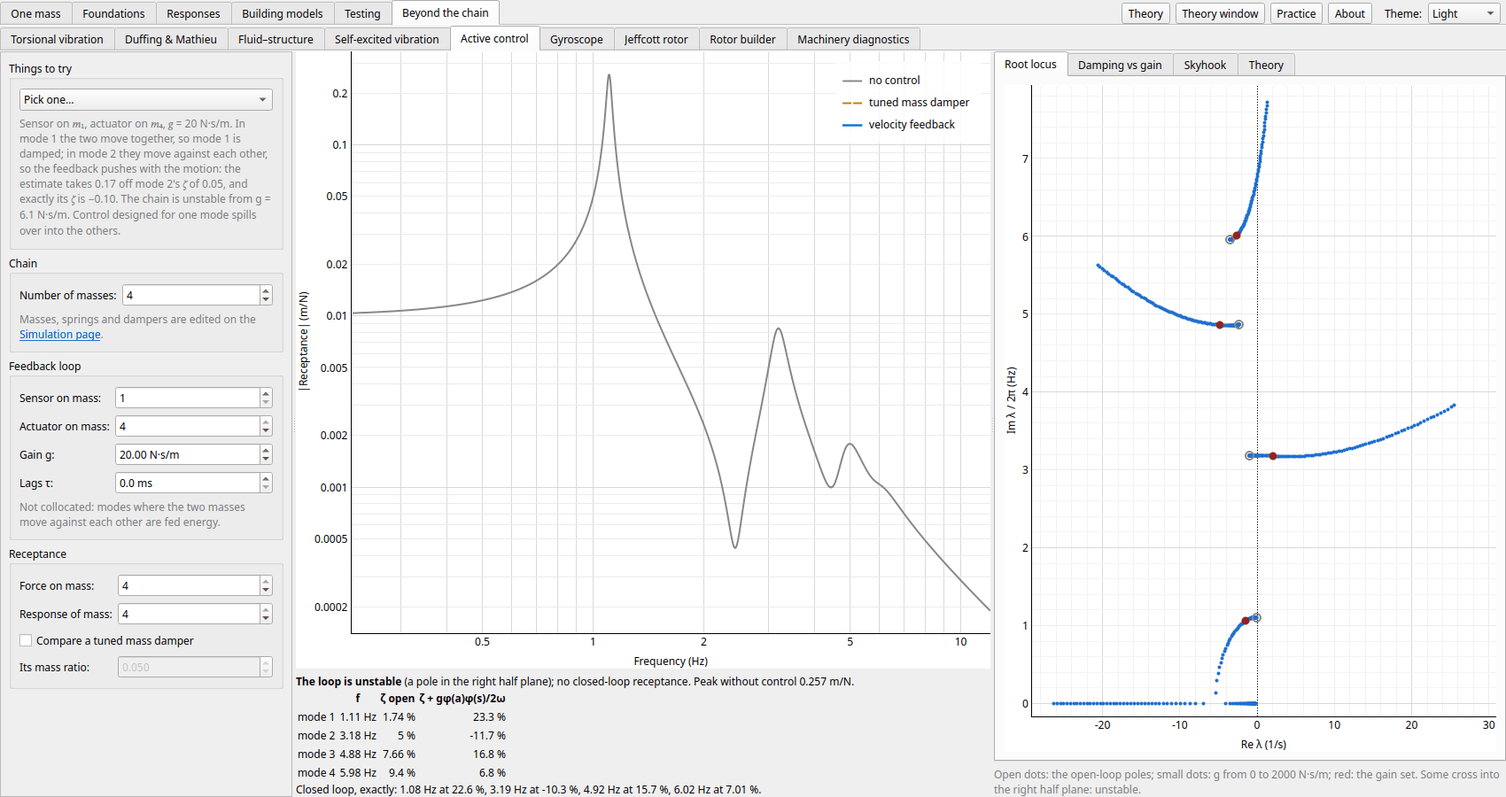
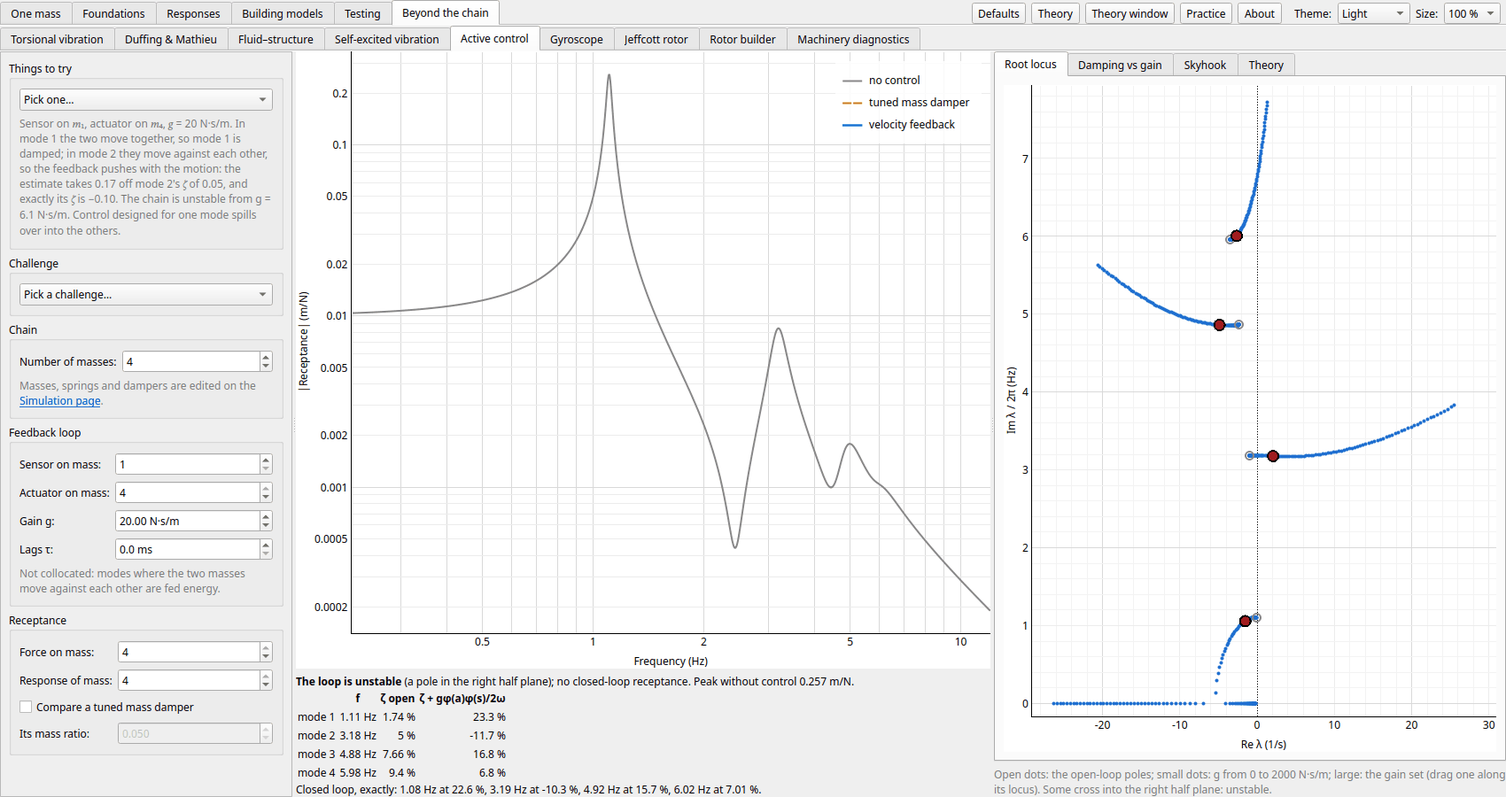
Drag the poles: the Single oscillator's s-plane and Active control's root locus (#316 B5)
The Single oscillator's poles are DragPoints (new in gui/drag.py): k and c follow, the mass kept; on the
real axis the other pole stays put (or meets it: critical). Active control's poles at the gain set are
DragDots along the locus, setting the gain.

diff --git a/src/vib_tutorial/gui/sdof.py b/src/vib_tutorial/gui/sdof.py
@@ -4,8 +4,8 @@ Left: the oscillator, its start and its drive. Centre: the mass itself on its sp
 the free or the driven response (pluck it to start it from where you let go; a `Playback` walks the time,
 with a cursor on the time plot), then the free decay (with its envelope and peaks, or
 three dampings side by side) and the response to a harmonic force switched on from rest. Right: the
-frequency response with its half-power band, the Nyquist plot, the phase plane, the poles (click to move
-them) and the Theory. The page has its own model (core/sdof.py), not the chain.
+frequency response with its half-power band, the Nyquist plot, the phase plane, the poles (drag
+them, `DragPoint`s, or click, to set k and c) and the Theory. The page has its own model (core/sdof.py), not the chain.
 """
 
 from __future__ import annotations
@@ -31,7 +31,7 @@ from ..core.sdof import (
 )
 from . import sdof_figures, settle_plots
 from .animation import ChainView
-from .drag import DragLine
+from .drag import DragLine, DragPoint
 from .layouts import ColumnScroll, group
 from .lesson import (
     Dot,
@@ -115,8 +115,8 @@ TRIALS = (
     SdofTrial(
         "Overdamped: two real poles",
         "<m>c</m> = 80 N·s/m, <m>ζ = 2</m>. The poles have left the imaginary axis for two points on the real one, at "
-        "−5.4 and −74.6 s<sup>−1</sup>: two decays and no oscillation. Click in the Poles plot to put them "
-        "anywhere; the page works out the <m>k</m> and <m>c</m> that put them there.",
+        "−5.4 and −74.6 s<sup>−1</sup>: two decays and no oscillation. Drag either along the real axis, "
+        "or off it, and the page works out the <m>k</m> and <m>c</m> that put them there.",
         damping=80.0,
         tab=TAB_POLES,
     ),
@@ -533,11 +533,13 @@ PHASE_TIP = (
     "<p>The free vibration as a path in the phase plane: velocity over ω<sub>n</sub> against displacement. "
     "Undamped it is a circle; damping winds it into a spiral, a turn per cycle.</p>"
 )
+POLE_SNAP = 0.02  # a pole dragged this close to the real axis (of the plot's height) lands on it
 POLES_TIP = (
     "<p>The roots of m s² + c s + k in the complex plane: −ζω<sub>n</sub> ± iω<sub>d</sub>. Their distance "
     "from the origin is ω<sub>n</sub>, the angle from the imaginary axis is sin⁻¹ζ. The rays are ζ = 0.05, "
-    "0.2, 0.5 and 0.8, the arc the current ω<sub>n</sub>. Click to put the upper pole there (the mass is "
-    "kept, k and c follow).</p>"
+    "0.2, 0.5 and 0.8, the arc the current ω<sub>n</sub>. Drag a pole (or click where it should go) and k and c "
+    "follow, the mass kept; the free and driven responses beside change as it moves. Drag one onto the real axis "
+    "for critical damping, then along it to split the pair.</p>"
 )
 
 NOTES_HTML = load_notes(
@@ -744,9 +746,14 @@ class SdofPage(QtWidgets.QWidget):
         self.s_plot.setToolTip(POLES_TIP)
         self.rays = [pg.PlotDataItem() for _ in range(4)]
         self.arc = pg.PlotDataItem()
-        self.pole_item = pg.ScatterPlotItem(size=12, symbol="x")
-        for item in (*self.rays, self.arc, self.pole_item):
+        self.pole_dots = [DragPoint("<p>Drag the pole: k and c follow (the mass is kept).</p>") for _ in range(2)]
+        self.pole_dots[0].dragged.connect(self._on_upper_dragged)
+        self.pole_dots[1].dragged.connect(self._on_lower_dragged)
+        for item in (*self.rays, self.arc, *self.pole_dots):
             self.s_plot.addItem(item)
+        for dot in self.pole_dots:
+            dot.released.connect(self._on_pole_released)
+        self._held: complex | None = None  # the pole not being dragged, while one is
         self.s_plot.scene().sigMouseClicked.connect(self._on_pole_click)
         sv.addWidget(self.s_plot, 1)
         self.pole_note = note_label()
@@ -862,10 +869,45 @@ class SdofPage(QtWidgets.QWidget):
         sigma, w = pos.x(), abs(pos.y())
         if sigma >= 0 or w <= 0:
             return
-        wn = math.hypot(sigma, w)
+        self._set_pair(sigma, w)
+
+    def _set_pair(self, sigma: float, w: float) -> None:
+        """k and c for the poles σ ± iw (or two real ones, `_set_real`), the mass kept."""
         m = self.osc.mass
-        set_quietly(self.stiffness, m * wn * wn)
+        set_quietly(self.stiffness, m * (sigma * sigma + w * w))
         set_quietly(self.damping, -2.0 * sigma * m)
+        self._on_oscillator()
+
+    def _on_pole_released(self) -> None:
+        self._held = None
+        self._draw_poles()  # the range held while dragging, fitted again
+
+    def _on_upper_dragged(self, x: float, y: float) -> None:
+        self._drag_pole(0, x, y)
+
+    def _on_lower_dragged(self, x: float, y: float) -> None:
+        self._drag_pole(1, x, y)
+
+    def _drag_pole(self, i: int, x: float, y: float) -> None:
+        """Pole `i` dragged to x + iy: off the real axis the pair goes there (its mirror image too); within a few
+        pixels of it, a real pole, the other staying where it is if it's on the axis too (or meeting it there,
+        from a complex pair: critical damping). Never into the right half plane, nor onto the origin (k = 0)."""
+        vb = self.s_plot.getPlotItem().getViewBox()
+        (x0, x1), (y0, y1) = vb.viewRange()
+        x = min(x, 0.0)
+        if abs(y) > POLE_SNAP * (y1 - y0):
+            self._set_pair(x, abs(y))
+            return
+        tiny = 1e-3 * (x1 - x0)
+        x = min(x, -tiny)
+        if self._held is None:  # the other pole as the drag began (the dots swap as real poles pass)
+            self._held = complex(self.osc.poles()[1 - i])
+        held = self._held  # stays where it is if it's on the axis (critical's rounding too)
+        other = held.real if abs(held.imag) <= POLE_SNAP * (y1 - y0) else x
+        other = min(other, -tiny)
+        m = self.osc.mass
+        set_quietly(self.stiffness, m * x * other)
+        set_quietly(self.damping, -m * (x + other))
         self._on_oscillator()
 
     def force_amplitude(self, freq_hz: float | np.ndarray) -> float | np.ndarray:
@@ -912,8 +954,8 @@ class SdofPage(QtWidgets.QWidget):
         for ray in self.rays:
             ray.setPen(pg.mkPen(c.faint, width=1, style=QtCore.Qt.PenStyle.DashLine))
         self.arc.setPen(pg.mkPen(c.faint, width=1))
-        self.pole_item.setPen(pg.mkPen(c.force, width=2.5))
-        self.pole_item.setBrush(pg.mkBrush(c.force))
+        for dot in self.pole_dots:
+            dot.apply_theme()
         self.plane_now.setPen(pg.mkPen(c.background, width=1.5))
         self.plane_now.setBrush(pg.mkBrush(c.mass[0]))
         self.body.apply_theme()
@@ -1210,7 +1252,8 @@ class SdofPage(QtWidgets.QWidget):
     def _draw_poles(self) -> None:
         o = self.osc
         s = o.poles()
-        self.pole_item.setData(s.real, s.imag)
+        for dot, p in zip(self.pole_dots, s):
+            dot.place(float(p.real), float(p.imag))
         wn = o.omega_n
         reach = max(1.3 * wn, 1.1 * float(np.max(np.abs(s.real))))
         for ray, z in zip(self.rays, (0.05, 0.2, 0.5, 0.8)):
@@ -1222,7 +1265,8 @@ class SdofPage(QtWidgets.QWidget):
             )
         th = np.linspace(math.pi / 2, 3 * math.pi / 2, 200)
         self.arc.setData(wn * np.cos(th), wn * np.sin(th))
-        self.s_plot.setRange(xRange=(-reach, 0.15 * reach), yRange=(-1.2 * wn, 1.2 * wn), padding=0.02)
+        if not any(dot.moving for dot in self.pole_dots):  # held still under the reader's drag
+            self.s_plot.setRange(xRange=(-reach, 0.15 * reach), yRange=(-1.2 * wn, 1.2 * wn), padding=0.02)
         if o.zeta < 1:
             self.pole_note.setText(
                 f"s = {s[0].real:.4g} ± {abs(s[0].imag):.4g}i s⁻¹: decay rate ζω<sub>n</sub> = "

diff --git a/src/vib_tutorial/gui/active_control.py b/src/vib_tutorial/gui/active_control.py
@@ -2,7 +2,7 @@
 
 Left: the sensor and actuator masses, the gain and the actuator's lag, the disturbance and response masses, and a
 tuned mass damper to compare. Centre: the receptance without control, with it, and with the TMD, and each mode's
-damping. Right: the root locus as the gain rises, each mode's damping against the gain, skyhook isolation, and the
+damping. Right: the root locus as the gain rises (drag a pole along it to set the gain: `DragDot`s), each mode's damping against the gain, skyhook isolation, and the
 Theory (its figures: gui/active_control_figures.py).
 """
 
@@ -31,6 +31,7 @@ from ..core.model import ChainSystem
 from ..core.practice import Problem, Question, Requirement, at_least, kept, number, pick
 from . import active_control_figures, settle_plots
 from .challenge import ChallengeBox
+from .drag import DragDot
 from .lesson import (
     Form,
     TrialBox,
@@ -393,8 +394,8 @@ TIPS = {
 }
 FRF_TIP = "<p>The receptance from the disturbance to the response: open loop, closed loop, and with the TMD.</p>"
 LOCUS_TIP = (
-    "<p>The closed-loop poles as the gain rises from 0 (open dots) to 2000 N·s/m; the filled dots are at "
-    "the gain set. Right of Re = 0 is unstable.</p>"
+    "<p>The closed-loop poles as the gain rises from 0 (open dots) to 2000 N·s/m; the large dots are at "
+    "the gain set: drag one along its locus to set the gain. Right of Re = 0 is unstable.</p>"
 )
 GAIN_TIP = (
     "<p>Each mode's damping ratio against the gain (followed by continuity); the dotted line is the gain set.</p>"
@@ -471,10 +472,14 @@ class ActiveControlPage(QtWidgets.QWidget):
         self.locus_plot.setToolTip(LOCUS_TIP)
         self.locus_items = marker(4)
         self.locus_open = marker(9)
-        self.locus_now = marker(9)
+        self.locus_now = [
+            DragDot("<p>Drag the pole along its locus to set the gain.</p>", size=12) for _ in range(MAX_DOF)
+        ]
         self.locus_axis = pg.InfiniteLine(angle=90, pos=0)
-        for item in (self.locus_axis, self.locus_items, self.locus_open, self.locus_now):
+        for item in (self.locus_axis, self.locus_items, self.locus_open, *self.locus_now):
             self.locus_plot.addItem(item)
+        for dot in self.locus_now:
+            dot.dragged.connect(self._on_locus_dragged)
         self.gain_plot = plot("Damping ratio ζ (%)", None, "Gain g (N·s/m)", None, log_x=True, height=200)
         self.gain_plot.setToolTip(GAIN_TIP)
         add_legend(self.gain_plot.getPlotItem(), offset=(-10, 10))
@@ -619,7 +624,8 @@ class ActiveControlPage(QtWidgets.QWidget):
         self.tmd_item.setPen(pg.mkPen(c.mass[1], width=2, style=QtCore.Qt.PenStyle.DashLine))
         mark(self.locus_items, c.mass[0], filled=True)
         mark(self.locus_open, c.grey)
-        mark(self.locus_now, c.force, filled=True)
+        for dot in self.locus_now:
+            dot.apply_theme()
         self.locus_axis.setPen(pg.mkPen(c.strong, width=1, style=QtCore.Qt.PenStyle.DotLine))
         self.gain_line.setPen(pg.mkPen(c.grey, width=1.5, style=QtCore.Qt.PenStyle.DotLine))
         self.gain_zero.setPen(pg.mkPen(c.faint, width=1))
@@ -633,6 +639,9 @@ class ActiveControlPage(QtWidgets.QWidget):
         self._dirty = True
         if self.isVisible():
             self.redraw()
+
+    def _on_locus_dragged(self, gain: float) -> None:
+        self.gain.setValue(gain)  # redraws, the dots with it
 
     def redraw(self) -> None:
         self._dirty = False
@@ -704,12 +713,17 @@ class ActiveControlPage(QtWidgets.QWidget):
                 roots.append(lam[lam.imag >= 0])
             pts = np.concatenate(roots)
             self.locus_items.setData(pts.real, pts.imag / (2 * np.pi))
+            gains = np.repeat(GAINS, [len(r) for r in roots])  # each point's gain, for the dots dragged along it
             lam0 = np.linalg.eigvals(closed_loop(s, None)[0])
             lam0 = lam0[lam0.imag >= 0]
             self.locus_open.setData(lam0.real, lam0.imag / (2 * np.pi))
             lam = np.linalg.eigvals(closed_loop(s, ctrl)[0])
             lam = lam[lam.imag >= 0]
-            self.locus_now.setData(lam.real, lam.imag / (2 * np.pi))
+            for j, dot in enumerate(self.locus_now):
+                dot.setVisible(j < len(lam))
+                dot.set_path(pts.real, pts.imag / (2 * np.pi), gains)
+                if j < len(lam):
+                    dot.place(float(lam[j].real), float(lam[j].imag) / (2 * np.pi), ctrl.gain)
             w = undamped_modes(s)[0]
             fmax = float(w[-1]) / (2 * np.pi) * 1.3
             reals = pts.real[np.abs(pts.real) < 5 * fmax * 2 * np.pi]
@@ -718,8 +732,8 @@ class ActiveControlPage(QtWidgets.QWidget):
             )
             self.locus_plot.setYRange(0.0, fmax, padding=0.02)
             self.tab_note.setText(
-                "Open dots: the open-loop poles; small dots: g from 0 to 2000 N·s/m; red: the gain "
-                "set. "
+                "Open dots: the open-loop poles; small dots: g from 0 to 2000 N·s/m; large: the gain "
+                "set (drag one along its locus). "
                 + (
                     "All stay left of Re λ = 0."
                     if max(pts.real) < 0

diff --git a/tests/test_drag.py b/tests/test_drag.py
@@ -75,6 +75,46 @@ def test_dragging_the_sdof_drive_line_sweeps_the_drive(main_window, app):
     assert line.data_value() == pytest.approx(5.0) and not seen
 
 
+def test_dragging_the_sdof_poles_sets_k_and_c(main_window, app):
+    """Off the real axis the pair follows the pointer; onto it, critical damping; along it, two real poles."""
+    w = main_window
+    w.resize(1280, 800)
+    p = w.sdof_page
+    w.pages.setCurrentWidget(p)
+    p.tabs.setCurrentIndex(3)  # Poles
+    p.s_plot.grab()
+    for _ in range(5):
+        app.processEvents()
+    m = p.mass.value()
+    upper, lower = p.pole_dots
+    s = p.osc.poles()
+    assert (upper.pos().x(), upper.pos().y()) == pytest.approx((s[0].real, s[0].imag))
+    range_before = p.s_plot.getPlotItem().getViewBox().viewRange()
+
+    drag(p.s_plot, scene_at(p.s_plot, s[0].real, s[0].imag), scene_at(p.s_plot, -6.0, 12.0), app)
+    s = p.osc.poles()  # σ ± iω_d where it was let go: k = m(σ² + ω²), c = −2mσ
+    assert s[0] == pytest.approx(complex(-6.0, 12.0), rel=0.02)
+    assert p.stiffness.value() == pytest.approx(m * 180.0, rel=0.03)
+    assert p.damping.value() == pytest.approx(12.0 * m, rel=0.03)
+    assert (lower.pos().x(), lower.pos().y()) == pytest.approx((s[1].real, s[1].imag), rel=1e-6)
+    assert p.free_item.getData()[1] is not None  # the free response beside was redrawn ...
+    t, x = p.free_item.getData()
+    assert np.ptp(x[t > 1.0]) < 0.01 * np.ptp(x)  # ... decaying at e^(−6t) now
+
+    drag(p.s_plot, scene_at(p.s_plot, -6.0, -12.0), scene_at(p.s_plot, -9.0, 0.0), app)  # the lower one
+    assert p.osc.zeta == pytest.approx(1.0, abs=0.01)  # met on the axis: critical
+    assert p.osc.omega_n == pytest.approx(9.0, rel=0.02)
+
+    drag(p.s_plot, scene_at(p.s_plot, -9.0, 0.0), scene_at(p.s_plot, -3.0, 0.0), app)
+    s = np.sort(p.osc.poles().real)  # one went to −3, the other stayed at −9
+    assert s == pytest.approx([-9.0, -3.0], rel=0.03)
+    assert p.stiffness.value() == pytest.approx(m * 27.0, rel=0.03)
+
+    drag(p.s_plot, scene_at(p.s_plot, -3.0, 0.0), scene_at(p.s_plot, 5.0, 8.0), app)  # into the right half
+    assert p.damping.value() == 0.0 and p.osc.poles()[0].real == pytest.approx(0.0, abs=1e-9)
+    assert p.s_plot.getPlotItem().getViewBox().viewRange() != range_before  # refitted once let go
+
+
 def test_a_drag_dot_snaps_to_its_path_and_emits_the_parameter(app):
     import pyqtgraph as pg
 
@@ -152,3 +192,28 @@ def test_dragging_the_quarter_car_dot_changes_the_damper(main_window, app):
     p.tabs.setCurrentIndex(next(k for k in range(p.tabs.count()) if p.tabs.tabText(k).startswith("Damper")))
     app.processEvents()
     assert p.damper_now.data_value() == pytest.approx(p.damper.value(), rel=1e-6)  # the sweep's line, once shown
+
+
+def test_dragging_a_pole_along_the_active_control_locus_sets_the_gain(main_window, app):
+    from vib_tutorial.gui.active_control import TAB_LOCUS
+
+    w = main_window
+    w.resize(1280, 800)
+    p = w.active_control_page
+    w.pages.setCurrentWidget(p)
+    p.tabs.setCurrentIndex(TAB_LOCUS)
+    p.locus_plot.grab()
+    for _ in range(5):
+        app.processEvents()
+    shown = [d for d in p.locus_now if d.isVisible()]
+    assert shown and all(d.param == pytest.approx(p.gain.value()) for d in shown)
+    dot = shown[0]
+    x, y, g = dot._x, dot._y, dot._p
+    near = np.flatnonzero(np.abs(np.log(np.maximum(g, 1e-9) / 300.0)) < 0.05)  # each branch's point at ~300 N·s/m
+    start = scene_at(p.locus_plot, dot.pos().x(), dot.pos().y())
+    far = [(scene_at(p.locus_plot, x[i], y[i]) - start).manhattanLength() for i in near]
+    target = int(near[np.argmax(far)])  # the one farthest from the dot on screen
+    assert max(far) > 40
+    drag(p.locus_plot, start, scene_at(p.locus_plot, x[target], y[target]), app)
+    assert p.gain.value() == pytest.approx(g[target], rel=0.02)  # the box follows ...
+    assert all(d.param == pytest.approx(p.gain.value()) for d in shown)  # ... and every pole moves to it

diff --git a/src/vib_tutorial/gui/drag.py b/src/vib_tutorial/gui/drag.py
@@ -8,6 +8,9 @@ units on a log axis too (pyqtgraph's items sit in log10 coordinates there).
   they let go; `set_value` moves it without either (from the page's own box, a trial).
 - `DragDot`: a dot on a path given point by point, each with a parameter (the damper along a trade-off curve); a
   drag snaps it to the nearest point on screen and emits that point's parameter.
+- `DragPoint`: a dot free to go anywhere on the plot (a pole in the s-plane). A drag emits where the pointer is,
+  `dragged(x, y)`, and leaves the dot to the page, which works out what that point means, clamps it and puts the
+  dot where it ended up (`place`).
 
 The page calls `apply_theme()` from its own (`MainWindow._restyle`), as for any item that keeps pens.
 
@@ -139,3 +142,31 @@ class DragDot(pg.TargetItem):
         self.setHoverPen(pg.mkPen(colors.strong, width=3))
         self.setHoverBrush(pg.mkBrush(QtGui.QColor(color).lighter(130)))
         self.update()
+
+
+class DragPoint(DragDot):
+    """A dot the reader drags anywhere: `dragged(x, y)` (view coordinates) as it moves, `released()` at the end.
+
+    The dot doesn't move itself: the page sets what the point means and `place`s it, so a point the page can't
+    take (a pole in the right half plane) is clamped where the page puts it.
+    """
+
+    dragged = QtCore.Signal(float, float)
+    released = QtCore.Signal()
+
+    def place(self, x: float, y: float, param: float = math.nan) -> None:
+        super().place(x, y, param)
+
+    def mouseDragEvent(self, ev) -> None:
+        if ev.button() != QtCore.Qt.MouseButton.LeftButton:
+            return
+        ev.accept()
+        if ev.isStart():
+            self.moving = True
+        if not self.moving or (vb := self.getViewBox()) is None:
+            return
+        at = vb.mapSceneToView(ev.scenePos())
+        self.dragged.emit(float(at.x()), float(at.y()))
+        if ev.isFinish():
+            self.moving = False
+            self.released.emit()

diff --git a/CLAUDE.md b/CLAUDE.md
@@ -16,7 +16,7 @@ Real-time teaching app for an N-mass spring-damper chain (PySide6 + pyqtgraph + 
 - The main window's pages are a `PageGroups` (`gui/tab_groups.py`): the groups and their order come from `gui/links.py`'s `COURSE`, the order they're meant to be read in (each page uses only ideas from the pages before it). It mirrors QTabWidget's API over the flat order, so `w.pages.setCurrentWidget(page)` works across groups. Theory notes link to each other with `page:<attribute>#<anchor>` (`MainWindow.go_to`); a notes file's `<before>` becomes its "Before this page" line (only earlier pages; `links.before`) and `<takeaways>` its closing list (`links.takeaways`). `links.PATHS` are shorter ways through the course, shown under the first page's map (with each page's problems solved, `practice.progress()`, redrawn as the notes show): each holds every page its pages build on, which `tests/test_links.py` checks, as it checks every link lands on an `<a name>`, every page has both, and a link in the prose to a later page says so in its sentence ("later", "ahead", "next"): it's a pointer, and the page mustn't lean on it. A page's notes may open with `<goals page="…">` (*On this page you'll*), an `<li trial="n" problem="key">` per goal, whose links set up its Thing to try n and ask its problem (`notes_view.ACTIONS`, `MainWindow.act`; `test_links` checks they exist). A trial may carry `predict=Prediction(prompt, choices, answer)` (`core/practice.py`), which its `TrialBox(..., predictions=...)` asks before setting it up, its note then the explanation (`load_trial` from code skips it); the One mass pages have both so far. A page's one-click *Things to try* is a `TRIALS` tuple (its notes may use `<m>`, set by `maths.markup` wherever they show) (the Simulation page's in `gui/sim_trials.py`) whose notes the Theory tab lists too, picked from a `lesson.TrialCombo` (numbered as the Theory's list, keeps the pick shown, a re-pick sets it up again; tests pick by name with `pick`); a trial that changes the chain emits `system_requested` rather than setting it, and `tests/test_tutorial_numbers.py` checks the numbers its note quotes.
 - The window fits a 1280 px screen (`test_window_fits_a_1280_px_screen`; 1159 offscreen): it's as wide as its widest page, and a page as its splitter's panes' minimums together. So don't put a long row of controls in a QHBoxLayout (its minimum is the sum of theirs): use `gui/layouts.py`'s `FlowLayout`, which wraps, with `group(...)` keeping a label with its control. Parameter panes and tall panels are `ColumnScroll`s (up and down only, as narrow as their contents allow; give their plots `plot_height`, or they scroll where the plots could have shrunk). A combo box with long items gets `AdjustToMinimumContentsLengthWithIcon`. Build forms with `layouts.form_layout` (fields fill their column: macOS's default keeps them at their size hint, and such a combo then shows a letter or two). Check a layout change with the window at 1280×800, not just 1700×900. The *Size* box (presenter mode, `gui/display_size.py`) scales it all by Qt's scale factor at launch, so lay out for 100 % only.
 - The *Practice window* (`gui/practice.py`, Ctrl+F2, built when first opened) asks each page's `PROBLEMS` (a tuple next to its `TRIALS`, `core/practice.py`'s `Problem`s; `practice.pages()` finds them in the course's order, importing the page modules without building the pages). A problem's `make(rng)` gives a `Question` with new numbers each time: print its inputs round and work the answer from them as printed, with the page's own `core` functions, so the key can't drift from the page. A number is right within a relative `tolerance` (`check` names the usual slips: 2π, 1000, 2, √2); a choice's options are shuffled by `Problem.question`. `setup` is the page's trial fields, applied by the page's `load_setup` (`SdofTrial("", "", **setup)`): with `predict` it's offered once answered, and checking runs it on the page. Hints link `page:` anchors (opened in the Theory window; a test checks they exist). A *spec* (`goal`, `design`) is answered on the page: the reader tunes its controls and *Check* passes the page's `practice_state()` (its settings as its trial dataclass, so a goal works without the page) to `goal`, which returns `Requirement`s (`at_most`, `kept`: a spec's given numbers must stay put, or moving them would be a way round it); `setup` is where the tuning starts, `design` settings that meet it (a test checks both through the page's boxes, and that the start doesn't). A page with problems has `load_setup` (and `practice_state` for specs), so its trial needs a field for each control they set or read (`TransientTrial.mass`, not a constant in `apply_trial`). Where a page's trials aren't a dataclass (tuples, or presets), a setup dataclass holds what its problems set and read, named by the module's `PRACTICE_SETUP` (`random_vibration.RandomSetup`) so the tests can build its state. The Simulation page is the main window's, so its problems sit in `gui/sim_trials.py` beside its `TRIALS`: `SimTrial` takes a chain element by element (`masses`, `springs`, `dampers`, built by `sim_trials.chain`) and the force (`target`, `freq_hz`, `force`); `MainWindow.apply_sim_trial` sets it up and `sim_practice_state` reads it back. A page may show its specs as challenges, `gui/challenge.py`'s `ChallengeBox` under its Things to try (Isolation, Quarter-car, Active control, Frame builder, Rotor so far): picking one loads its `setup`, and while it shows it reads `practice_state()` four times a second and runs `goal` when it changed (keep a goal under ~10 ms), marking it solved (`practice.mark_solved`); Defaults clears it. Solved problems are kept in QSettings (`practice/solved`); GUI tests that touch it point QSettings at a temporary directory. `tests/test_practice.py` checks every problem over 50 seeds, and that the short cuts its solutions offer (δ/2π, Δf/2f<sub>n</sub>, 15.76/√δ) pass.
-- Lesson pages share `gui/lesson.py` (`plot`, `Form`, `TrialBox`, `RunButton`, `fmt`): a `TRIALS` tuple, tabs drawn only when shown, their own `core/` module and a `tests/test_<module>.py`, their notes' numbers in `tests/test_tutorial_numbers.py`, and listed in `test_lesson_pages_trials_and_tabs`. A page with its own model sets `follows_chain = False`; one that follows the chain sends its trials' chains by `system_requested`. The small ones (the One mass group, Signals & spectra) have no frame loop: a control change works the plots out at once, in closed form or by `sdof.respond` (the exact FOH update, as the chain's). A control change whose work takes more than ~100 ms goes through a `gui/recompute.py` `Recompute` (debounced, on a worker thread, the latest result only; `now(job)` for trials, Defaults and new chains, which the reader waits for and tests read at once; `wait()` in tests): the job is a pure function built from the controls' values, touching no widget (the Nonlinearity page's sweep). A value the reader can drag on a plot is a `gui/drag.py` `DragLine` (a line with a grip, in data units on a log axis too) or `DragDot` (a dot snapping along a path); bind its `dragged(value)` to the page's box (a bound method) and move it with `set_value`/`place` when the box changes; call its `apply_theme()` from the page's (`tests/test_drag.py` drags them with synthetic mouse events). A small page's closed-form response is played back in time by a `gui/playback.py` `Playback` (Start/Pause, Reset, speed, a time cursor that scrubs; `moved(t)` places the page's body, `set_span` on each redraw, `play()` from a trial or a pluck): the Single oscillator's mass, a one-mass `ChainView`, Pendulums' `PendulumView`, Damping models' `DampingView`, and Vibration isolation's `IsolationView`. Use `PlotDataItem(pen=None, symbol=…)` for markers on a log axis: a `ScatterPlotItem` ignores the log mode. Every control needs a name a screen reader can read: `Form.add`, `layouts.form_row` and `layouts.group` name theirs from their labels (`gui/accessible.py`); a control built outside them gets a buddy label or `setAccessibleName`. A plot is named after its title or axes when its page is built (`accessible.name_plots`); one with neither (a drawing: the chain, the rotor) gets `setAccessibleName` where it's made (`tests/test_accessible.py` checks every page's controls and plots).
+- Lesson pages share `gui/lesson.py` (`plot`, `Form`, `TrialBox`, `RunButton`, `fmt`): a `TRIALS` tuple, tabs drawn only when shown, their own `core/` module and a `tests/test_<module>.py`, their notes' numbers in `tests/test_tutorial_numbers.py`, and listed in `test_lesson_pages_trials_and_tabs`. A page with its own model sets `follows_chain = False`; one that follows the chain sends its trials' chains by `system_requested`. The small ones (the One mass group, Signals & spectra) have no frame loop: a control change works the plots out at once, in closed form or by `sdof.respond` (the exact FOH update, as the chain's). A control change whose work takes more than ~100 ms goes through a `gui/recompute.py` `Recompute` (debounced, on a worker thread, the latest result only; `now(job)` for trials, Defaults and new chains, which the reader waits for and tests read at once; `wait()` in tests): the job is a pure function built from the controls' values, touching no widget (the Nonlinearity page's sweep). A value the reader can drag on a plot is a `gui/drag.py` `DragLine` (a line with a grip, in data units on a log axis too) or `DragDot` (a dot snapping along a path: a pole along a root locus), or a `DragPoint` (free: `dragged(x, y)`, the page clamps it and `place`s it; the Single oscillator's poles); bind its `dragged(value)` to the page's box (a bound method) and move it with `set_value`/`place` when the box changes; call its `apply_theme()` from the page's (`tests/test_drag.py` drags them with synthetic mouse events). A small page's closed-form response is played back in time by a `gui/playback.py` `Playback` (Start/Pause, Reset, speed, a time cursor that scrubs; `moved(t)` places the page's body, `set_span` on each redraw, `play()` from a trial or a pluck): the Single oscillator's mass, a one-mass `ChainView`, Pendulums' `PendulumView`, Damping models' `DampingView`, and Vibration isolation's `IsolationView`. Use `PlotDataItem(pen=None, symbol=…)` for markers on a log axis: a `ScatterPlotItem` ignores the log mode. Every control needs a name a screen reader can read: `Form.add`, `layouts.form_row` and `layouts.group` name theirs from their labels (`gui/accessible.py`); a control built outside them gets a buddy label or `setAccessibleName`. A plot is named after its title or axes when its page is built (`accessible.name_plots`); one with neither (a drawing: the chain, the rotor) gets `setAccessibleName` where it's made (`tests/test_accessible.py` checks every page's controls and plots).
 - The strip chart (`TimeHistoryPlot`) decimates incrementally: `Decimator` caches each curve's own min/max per bucket (a bucket per pixel column of the plot, so the line covers the pixels the whole record would) by absolute sample number (`History.offset`), and `update_data` gets a `values(index)` callback so only new and decimated rows are derived. If the plotted values of samples already seen change (other curves, a new modal map), go through `set_curves`, which resets the cache.
 - The Simulation page's history keeps every stride-th step (`_store_stride`: samples STORE_DT apart, or STORE_PER_PERIOD to the fastest mode's or forcing's period, `Simulator.fastest_hz`, or a tenth of a pulse), continuing the stride across advances (`_carry`). The presets keep every step; a stiff chain's 7.6 µs steps keep every 4th, so the 300,000 samples span ~9 s, not 2.3. Everything recorded per sample (energies, element forces) is worked out only for the kept ones; the energy balance still closes on them.
 - `Simulator.advance` caps the number of steps per call (`MAX_STEPS_PER_ADVANCE`). Loop over it for long runs in tests. The Simulation page also caps each frame's steps to its compute budget (`FRAME_BUDGET` over the measured cost of a step, `PROBE_STEPS` while a new system's isn't known), so a test that wants a set stretch of simulated time from `_tick` should call `sim.advance` itself.

diff --git a/docs/one-mass.md b/docs/one-mass.md
@@ -22,8 +22,8 @@ driven response and a time cursor on its plot; drag it and let go to pluck it. T
 and the log decrement measured from them (or ζ = 0.1, 1 and 2 side by side); a harmonic force or a
 rotating unbalance switched on from rest, beside its steady state; and four views of the receptance:
 amplification and lag with the half-power band marked, the Nyquist circle, the phase plane, and the
-poles in the s-plane, where a click puts them and the page works out k and c. Nine trials include
-critical damping, beats, the undamped resonance's straight-line growth and the unbalance's 180° turn.
+poles in the s-plane, which you drag (or click to place) while the page works out k and c and the
+responses beside follow. Nine trials include critical damping, beats, the undamped resonance's straight-line growth and the unbalance's 180° turn.
 
 ![Single oscillator page, resonance from rest: 1 N at f<sub>n</sub> = 3.18 Hz on m = 1 kg, k = 400 N/m, ζ = 0.05, the mass drawn above the plots 1.6 s in, with the force on it; the free decay's peaks give δ = 0.3146 (each 1.37 times the next), the forced swing grows over a few time constants to the steady 25 mm, ten times the static 2.5 mm, lagging 90°; the half-power points are 3.012 and 3.331 Hz](images/single_oscillator.png)
 

diff --git a/docs/beyond-the-chain.md b/docs/beyond-the-chain.md
@@ -156,7 +156,8 @@ lift by coalescence; in quasi-steady lift the pitch mode goes on its own).
 Velocity feedback on the Simulation page's chain: the closed loop's poles exactly, against the light
 feedback estimate; collocated control that damps every mode until too much gain pins the mass,
 non-collocated control that spills over into a mode it destabilizes, an actuator's lag, a comparison
-with a tuned mass damper of the same mass ratio, and skyhook isolation against a passive damper.
+with a tuned mass damper of the same mass ratio, and skyhook isolation against a passive damper. On the
+root locus, drag a pole along its path and the gain follows.
 
 ![Active control page, spillover: velocity from m1 fed back to m4 at g = 20 N·s/m damps mode 1 but drives mode 2 unstable (ζ = −0.10); non-collocated, the loop is unstable from g = 6.1 N·s/m](images/active_control.png)
 

diff --git a/docs/code-layout.md b/docs/code-layout.md
@@ -173,7 +173,7 @@
   widget reads its colours from the current one (`colors.mass[i]`, `colors.force`) and
   redraws in a new one through its `apply_theme()`. Log axes use `gui/axes.py`, which labels
   only as many ticks as fit. What the reader drags on a plot is `gui/drag.py`'s: a `DragLine` (a value,
-  with a grip) or a `DragDot` (a point sliding along a curve), each a signal the page binds to its box.
+  with a grip) a `DragDot` (a point sliding along a curve) or a `DragPoint` (a point dragged anywhere, a pole), each a signal the page binds to its box.
   A closed-form response is played back in time by `gui/playback.py`'s `Playback` (Start, Reset, a
   speed, and a time cursor on its plots), which moves the page's body: the Single oscillator's mass,
   Pendulums' pendulum (`gui/pendulum_view.py`, each kind drawn and turned with the mouse), and Damping
